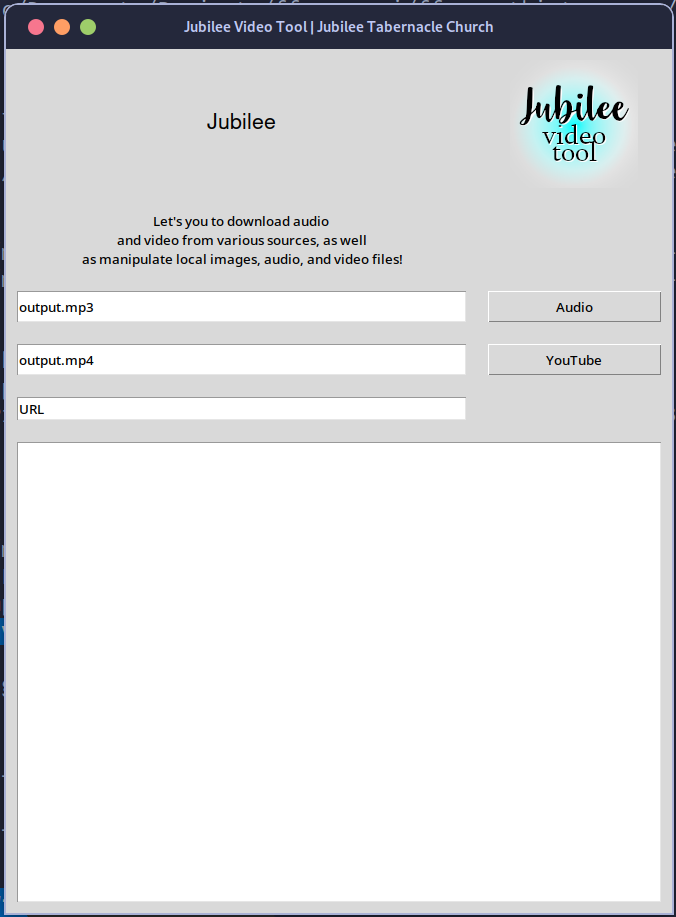
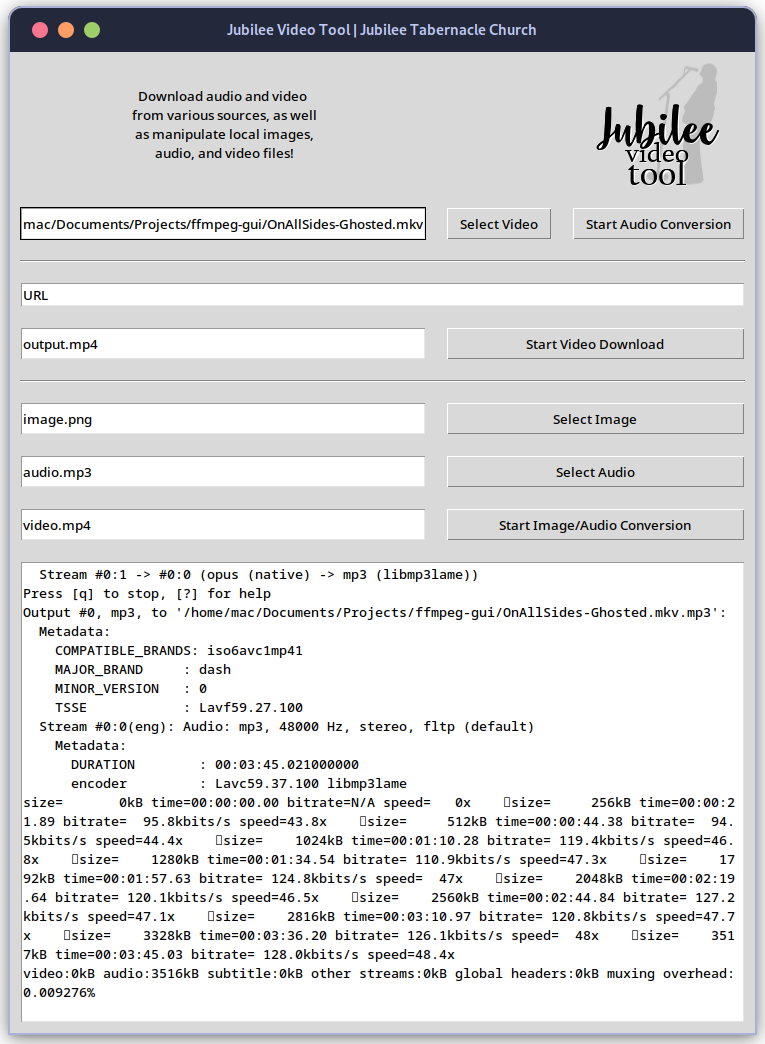
Updated Readme
- Added 1.0 image
- Added additional functionality
- Added Instructions

Changed region(s): [[0.0, 0.0, 1.0, 1.0], [0.1553, 0.0916, 0.4038, 0.1527], [0.5592, 0.6718, 0.6834, 0.7023]]

diff --git a/README.md b/README.md
@@ -1,6 +1,6 @@
 ![Jubilee Video Tool](https://raw.githubusercontent.com/Jmac217/Jubilee/master/image.png "Jubilee Video Tool")
 # Jubilee Video Tool
-## Converts Media to MP3 and will support more in the future
-![Jubilee Video Tool](https://raw.githubusercontent.com/Jmac217/Jubilee/master/Resources/jubilee.png "Jubilee Video Tool")  
+## Converts Media to MP4, Downloads Video Resources, and combines an image with an MP3 to output MP4
+### Requires FFMpeg and YouTube-DL to be installed on your machine and available on your user path  
 
-![Jubilee Video Tool Log](https://raw.githubusercontent.com/Jmac217/Jubilee/master/Resources/jubilee-log.png "Jubilee Video Tool Log")
+![Jubilee Video Tool](https://raw.githubusercontent.com/Jmac217/Jubilee/master/Resources/jubilee.png "Jubilee Video Tool")
